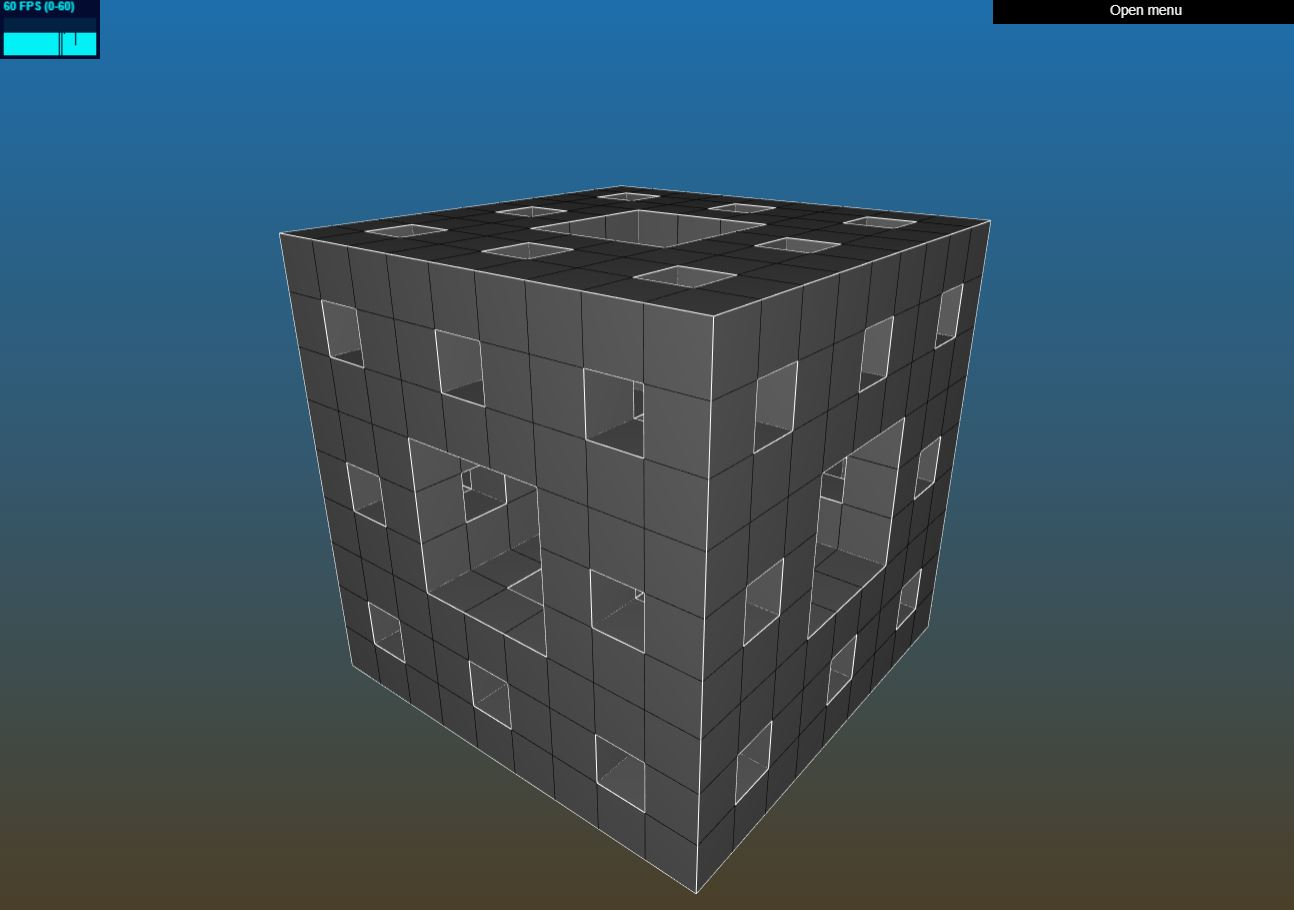
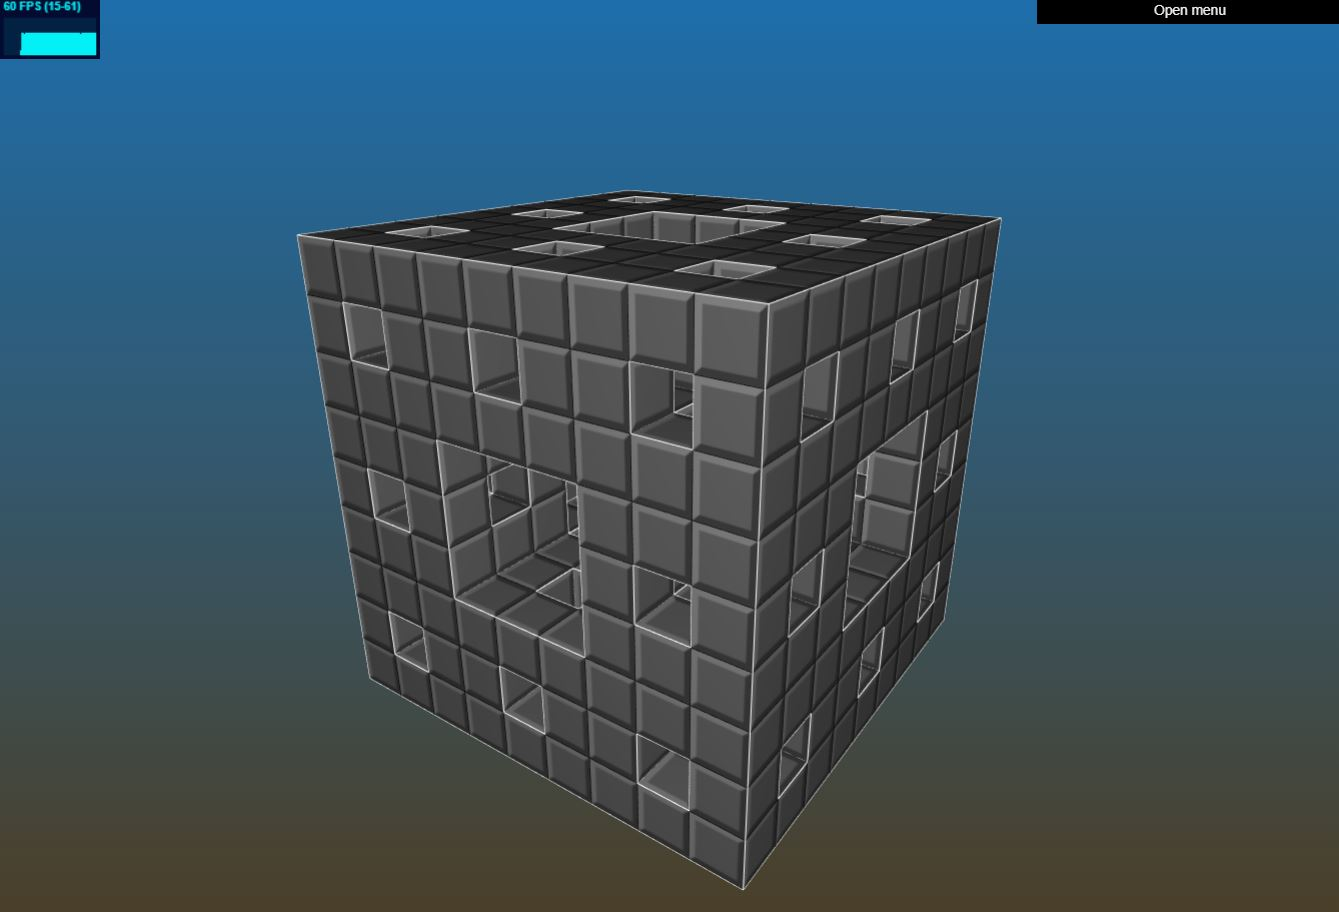
Updated game picture

diff --git a/src/app.js b/src/app.js
@@ -118,7 +118,7 @@ $(function () {
     deleteUrlParams();
     app_viewer.init('#viewer');
 
-    let $fig = 5; // Draw figure
+    let $fig = 3; // Draw figure
     setTimeout(function () {
         let g;
         switch ($fig) {
